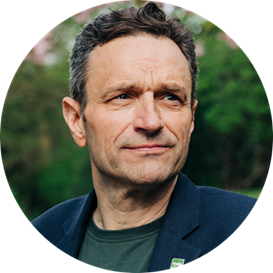
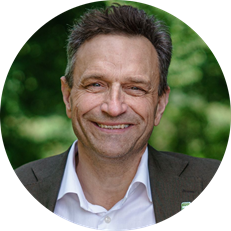
update picture on welcome dialog

diff --git a/src/application.css b/src/application.css
@@ -11,6 +11,10 @@ dialog {
   margin: revert;
 }
 
+&:disabled {
+  color: revert;
+}
+
 :root,
 dialog {
   --skog: #133600;
